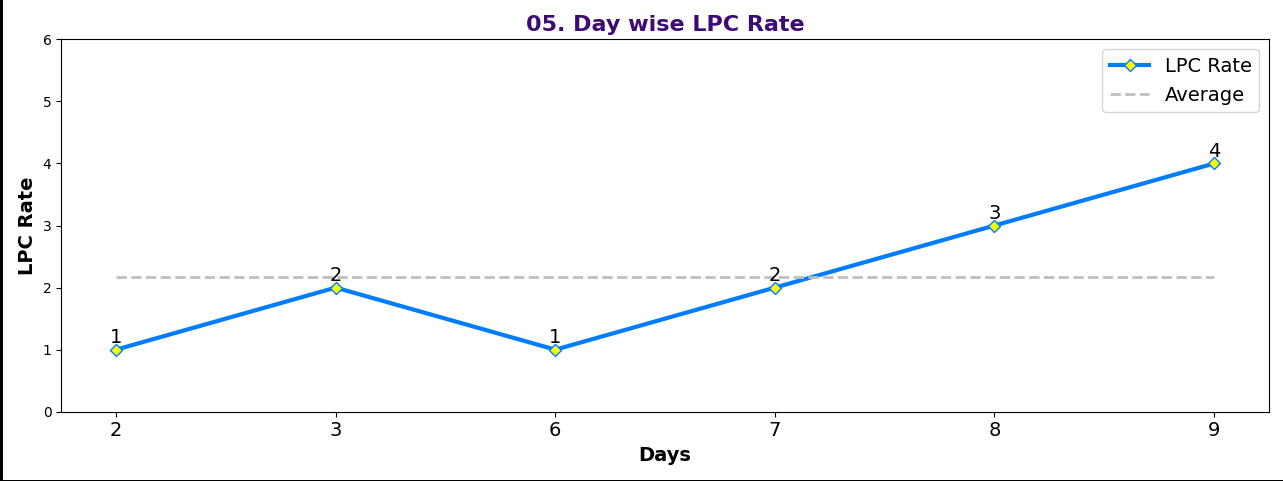
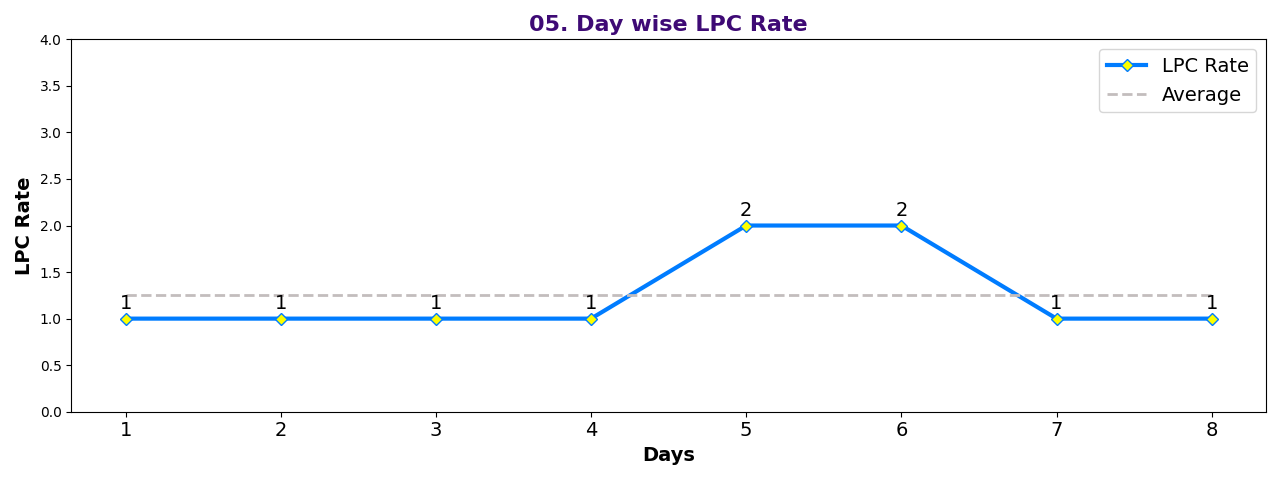
Day wise LPC Rate updated

diff --git a/Functions/lpc_rate_figure.py b/Functions/lpc_rate_figure.py
@@ -1,0 +1,35 @@
+import matplotlib.pyplot as plt
+import math
+import Functions.all_functions as fn
+import numpy as np
+
+
+def day_wise_lpc_rate(lpc_days, lpc_rate):
+    range(1, len(lpc_days) + 1, 1)
+    ypos = np.arange(len(lpc_days))
+
+    avg = []
+    for i in range(len(lpc_rate)):
+        a = sum(lpc_rate) / len(lpc_rate)
+        avg.append(a)
+
+    fig, ax = plt.subplots(figsize=(12.81, 4.8))
+    plt.ylim(0, max(lpc_rate) + 2, 1)
+    plt.plot(lpc_rate, color='#007cff', linewidth='3', marker='D', markerfacecolor="#fcff00")
+    plt.plot(avg, color='#c3bdbd', linestyle='--', linewidth='2')
+    # Show data point ----------------------------------------
+
+    for i, v in enumerate(lpc_rate):
+        ax.text(i, v + .1, "%d" % v, ha="center", fontsize='14')
+
+    ax.set_xticks(ypos)
+    ax.set_xticklabels(lpc_days, fontsize=14)
+
+    plt.title('05. Day wise LPC Rate', fontsize=16, fontweight='bold', color='#3e0a75')
+    plt.xlabel('Days', fontsize='14', color='black', fontweight='bold')
+    plt.ylabel('LPC Rate', fontsize='14', color='black', fontweight='bold')
+    plt.legend(['LPC Rate', 'Average'], loc='best', fontsize='14')
+    plt.tight_layout()
+    # plt.show()
+    print('Fig 05: Day wise LPC Rate generated')
+    return plt.savefig('./Images/day_wise_lpc_rate.png')

diff --git a/setup.py b/setup.py
@@ -121,6 +121,8 @@ import Functions.sales_kg_figure as saleskg
 import Functions.visit_rate_figure as visit_fig
 import Functions.strike_rate_figure as strike_rate_fig
 import Functions.drop_size_figure as drop_size_fig
+import Functions.lpc_rate_figure as lpc_fig
+
 # dash.generate_dashboard(sr_name, reporting_boss, trg_val, sales_val, trg_kg, sales_kg, days_in_month,
 #                         current_day, trend_val, return_val, return_kg, visit_rate, strike_rate, lpc, val_drop_size,
 #                         w_drop_size, trend_w_kg, w_trend_per)
@@ -130,8 +132,9 @@ import Functions.drop_size_figure as drop_size_fig
 # visit_fig.day_wise_visit_rate(visit_days, day_visit_rate)
 # strike_rate_fig.day_wise_strike_rate(strike_days, day_strike_rate)
 
-# fg.day_wise_lpc_rate()
-drop_size_fig.day_wise_drop_size_value(drop_days,drop_size_val)
+lpc_fig.day_wise_lpc_rate(lpc_days, lpc_rate)
+
+# drop_size_fig.day_wise_drop_size_value(drop_days,drop_size_val)
 
 # fg.day_wise_drop_size_kg()
 
